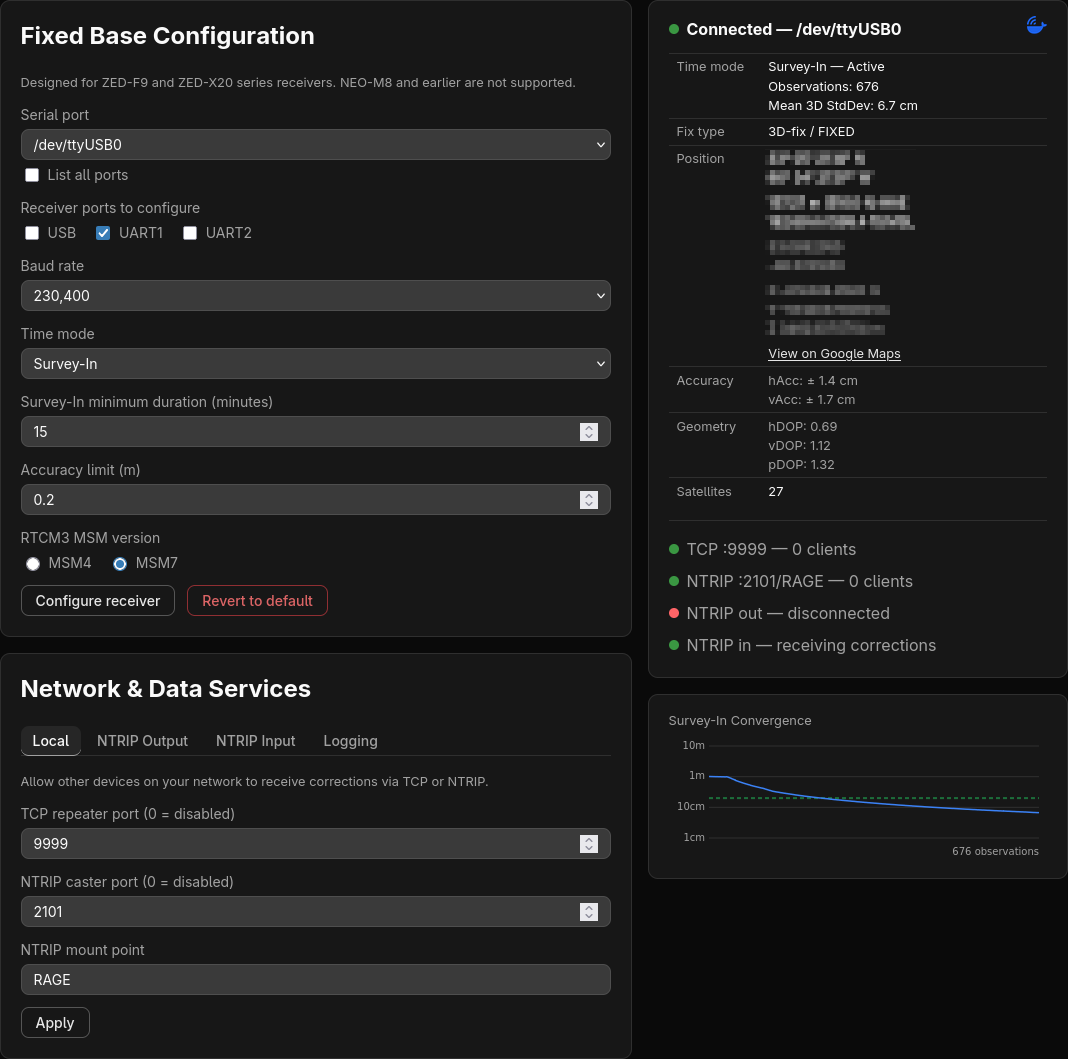
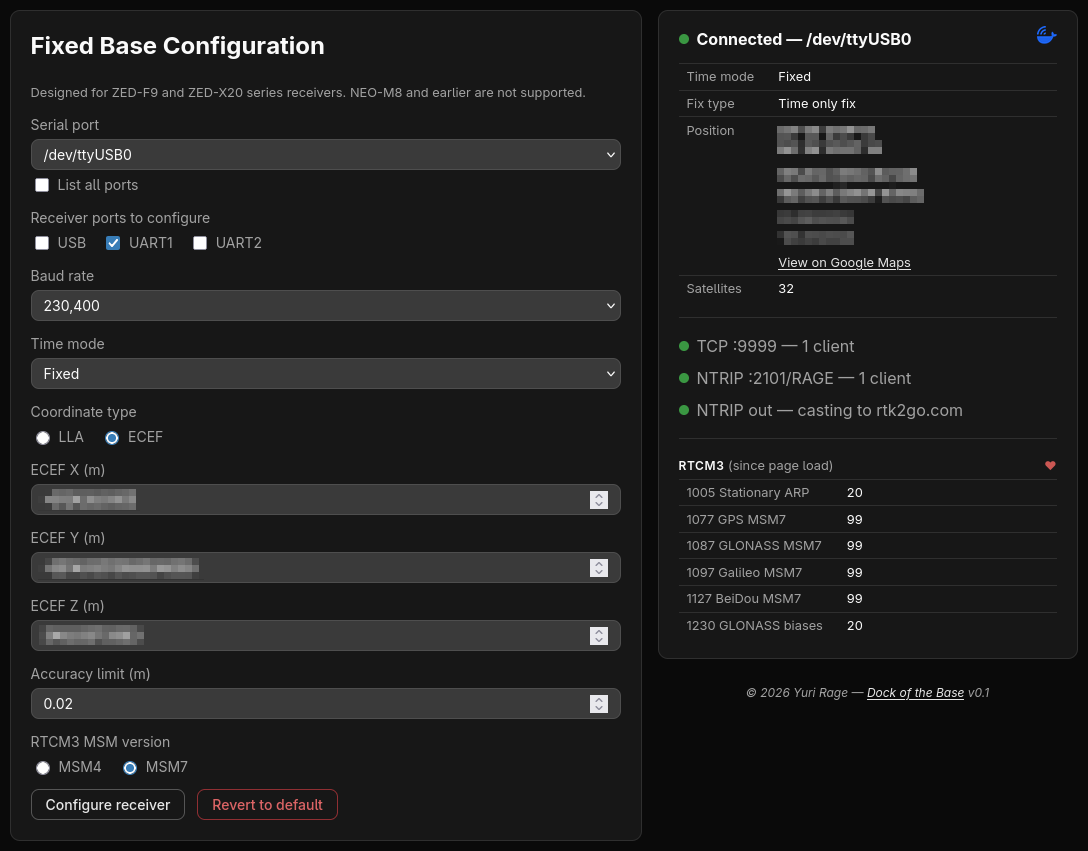
_status: implement heartbeat on RTCM3 update

diff --git a/app/static/styles.css b/app/static/styles.css
@@ -243,8 +243,10 @@ pre {
 
 .subdued {
     color: var(--muted-foreground);
-    text-transform: lowercase;
-    font-weight: 300;
+    text-transform: none;
+    font-weight: 400;
+    letter-spacing: 0;
+    font-size: 0.8rem;
 }
 
 .tabs {
@@ -375,6 +377,45 @@ pre {
     text-transform: uppercase;
     letter-spacing: 0.05em;
     padding-bottom: 0.25rem;
+}
+
+.rtcm3-caption {
+    display: flex;
+    justify-content: space-between;
+    align-items: center;
+    font-size: 0.75rem;
+    font-weight: 600;
+    color: var(--foreground);
+    text-transform: uppercase;
+    letter-spacing: 0.05em;
+    padding-bottom: 0.25rem;
+    margin-top: 0.75rem;
+}
+
+@keyframes heart-fade {
+    0% {
+        opacity: 0;
+    }
+    10% {
+        opacity: 1;
+    }
+    40% {
+        opacity: 0.15;
+    }
+    70% {
+        opacity: 1;
+    }
+    100% {
+        opacity: 0;
+    }
+}
+
+.rtcm3-heartbeat {
+    animation: heart-fade 1s ease-out forwards;
+    color: oklch(0.72 0.19 25);
+    text-transform: none;
+    letter-spacing: 0;
+    font-weight: 400;
 }
 
 .receiver-info td {

diff --git a/app/templates/_status.html b/app/templates/_status.html
@@ -180,8 +180,11 @@
     {% endif %}
     {% if rtcm3_counts %}
         <hr />
-        <table class="receiver-info">
-            <caption>RTCM3 <span class="subdued">(since page load)</span></caption>
+        <div class="rtcm3-caption">
+            <span>RTCM3 <span class="subdued">(since page load)</span></span>
+            <span class="rtcm3-heartbeat">&#9829;</span>
+        </div>
+        <table class="receiver-info" style="margin-top: 0">
             {% for msg_type, count in rtcm3_counts.items() %}
                 <tr data-rtcm3-type="{{ msg_type }}" data-rtcm3-count="{{ count }}">
                     <td>

diff --git a/README.md b/README.md
@@ -49,6 +49,7 @@ docker compose down
   - (recommend 230,400)
 - Choose "Fixed" under "Time mode," and enter antenna location data.
 - Click "Configure receiver" to save the settings and connect to the receiver.
+- Once configured, RTCM3 message counts by type are displayed in the status pane. A heartbeat indicator pulses with each status update to confirm the app is running normally.
 
 > NOTE: If the receiver was previously configured, it's best to reset it before configuring (click "Revert to default").
 
@@ -62,7 +63,7 @@ docker compose down
 
 > NOTE: A self-survey may be canceled at any time by selecting "Fixed" mode. An option to use the current survey state location/accuracy will be presented.
 
-> NOTE: Survey-In is typically a one-time operation. Once complete, save the result as Fixed mode — the base station will use those coordinates on every subsequent boot without re-surveying.
+> NOTE: Survey-In is typically a one-time operation. Once complete, save the result as Fixed mode - the base station will use those coordinates on every subsequent boot without re-surveying.
 
 > NOTE: A self-survey's *absolute* accuracy is typically only 1-2 meters, even when the reported standard deviation converges much finer. This does not affect rover *repeatability*: all RTCM corrections are relative to the fixed base position, so rovers will return to saved waypoints with cm-level consistency regardless of absolute accuracy, as long as the base station coordinates do not change. For applications requiring absolute geodetic accuracy, have the antenna location professionally surveyed or use PPK post-processing.
 